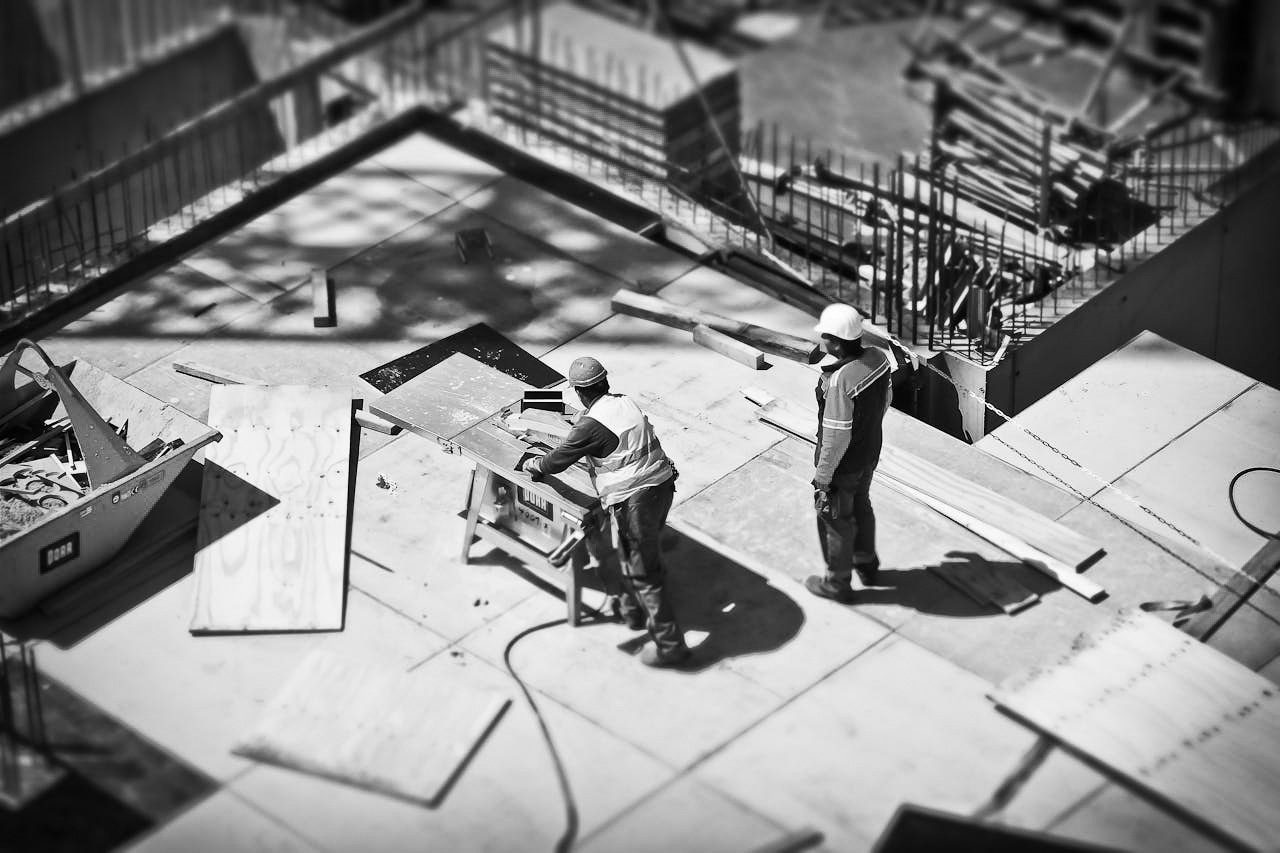
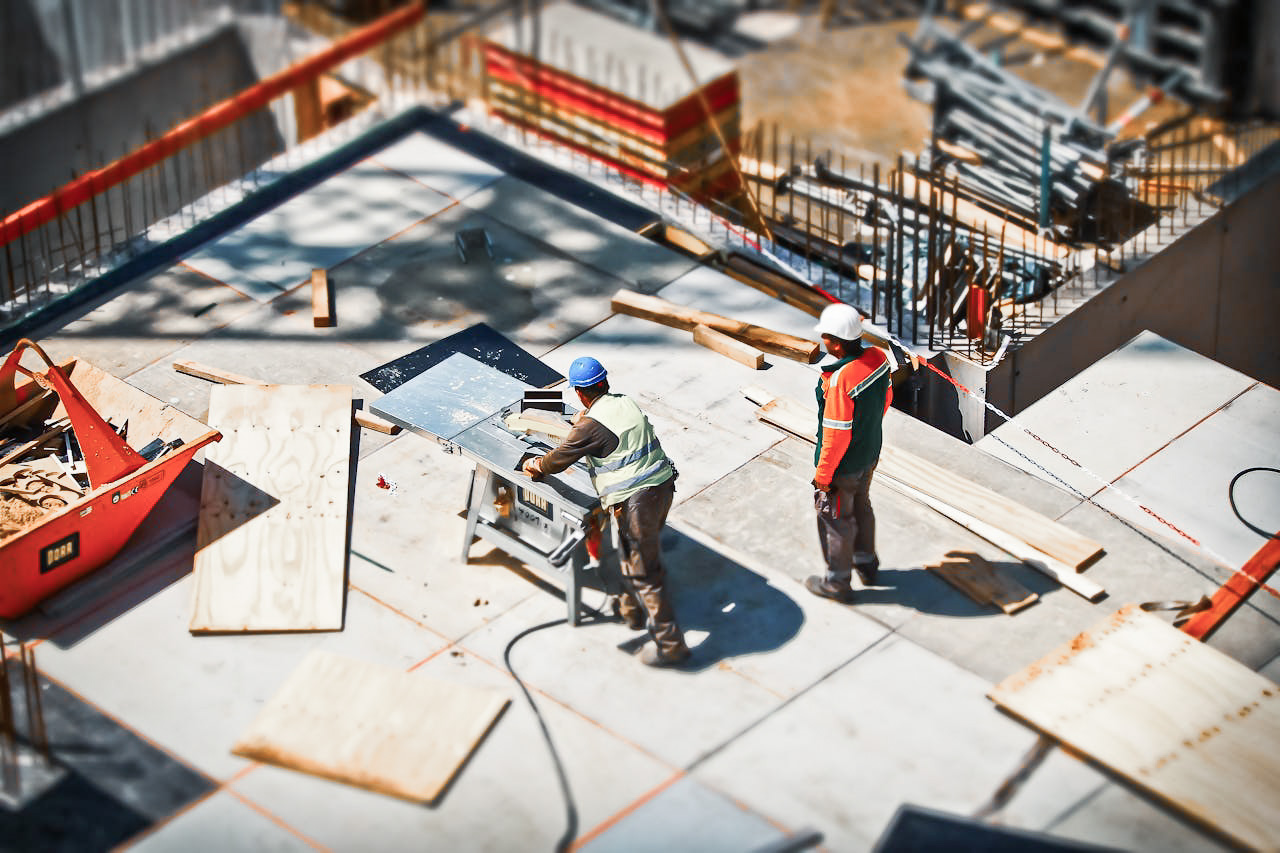
Add files via upload

diff --git a/css/styles.css b/css/styles.css
@@ -264,7 +264,7 @@
   width: 100%;
 }
 .hero.main .hero-text { max-width: 580px; }
-.hero-text { max-width: 700px; }
+.hero-text { max-width: 650px; }
 .hero h1 {
   margin-bottom: var(--space-5);
 }
@@ -833,7 +833,7 @@
 }
 .industry-img {
   aspect-ratio: 16 / 10;
-  border-radius: var(--radius-sm);
+  border-radius: var(--radius-md);
   overflow: hidden;
   background: var(--color-gray);
 }
@@ -845,7 +845,7 @@
 }
 .industry-row:hover .industry-img img {
   filter: grayscale(0);
-  transform: scale(1.04);
+  transform: scale(1.08);
 }
 
 @media (max-width: 1024px) {
@@ -1500,7 +1500,7 @@ color: var(--color-gray-lighter);
   }
   .contact-card {padding: var(--space-10); width: 90%; top: -5rem;}
   .contact-row .hero-text {
-    max-width: 100%;
+    max-width: 90%;
   }
 }
 

diff --git a/industries.html b/industries.html
@@ -90,7 +90,7 @@
               <h2>Construction</h2>
               <p class="text-lg">We move material and equipment across jobsites, construction yards, and distribution centers with flatbed, step deck, and dry van solutions. Permits, routing, and dockless jobsite delivery are coordinated in advance. With crews scheduled and cranes booked to offload, we ensure drivers show up on time and freight is handled with care.</p>
             </div>
-            <div class="industry-img"><img src="img/industries-ace-lane-construction.png" alt="Construction"></div>
+            <div class="industry-img"><img src="img/industries-ace-lane-construction.jpg" alt="Construction"></div>
           </li>
           
           <li class="industry-row">
@@ -99,7 +99,7 @@
               <h2>Food & Beverage</h2>
               <p class="text-lg">We move reefer freight for retail distribution centers, producer-direct lanes, and stock transfers. Trailer temperature is confirmed at pick-up and tracked through delivery. We manage retail DC appointments when shippers prefer to hand off scheduling. Food-grade trailers and washout verification keep product integrity intact, with protective dunnage used as needed to keep your products in the right condition.</p>
             </div>
-            <div class="industry-img"><img src="img/industries-ace-lane-food-and-beverage.png" alt=""></div>
+            <div class="industry-img"><img src="img/industries-ace-lane-food-and-beverage.jpg" alt=""></div>
           </li>
           
           <li class="industry-row">
@@ -108,7 +108,7 @@
               <h2>Tradeshow</h2>
               <p class="text-lg">We coordinate tradeshow freight around target move-in dates and marshalling yard schedules. Advance warehouse and direct-to-show delivery, with MHA and BOLs submitted promptly to the show contractor to avoid the forced-freight list once booths are broken down. We work with experienced tradeshow drivers and meet optimal check-in windows, whether show-to-show or back to the DC.</p>
             </div>
-            <div class="industry-img"><img src="img/industries-ace-lane-gameshow.jpg" alt="Tradeshow"></div>
+            <div class="industry-img"><img src="img/industries-ace-lane-tradeshow.png" alt="Tradeshow"></div>
           </li>
           
           <li class="industry-row">
@@ -135,7 +135,7 @@
               <h2>Other industries</h2>
               <p class="text-lg">We use the same discipline across different industries. Whether it is retail and e-commerce, pharmaceuticals, produce, or automotive freight, we deliver tailored logistics solutions and ensure proper handling adapted to your unique industry needs.</p>
             </div>
-            <div class="industry-img"><img src="img/industries-ace-lane-other.png" alt="Other industries"></div>
+            <div class="industry-img"><img src="img/industries-ace-lane-other2.jpg" alt="Other industries"></div>
           </li>
 
         </ul>

diff --git a/css/tokens.css b/css/tokens.css
@@ -47,7 +47,7 @@
   --text-2xl: clamp(1.35rem, 1.24rem + 0.56vw, 1.5rem);  /* 22 → 28px */
   --text-3xl: clamp(1.5rem,   1.3rem + 0.75vw, 2rem);     /* 24 → 32px */
   --text-4xl: clamp(1.75rem, 1.3rem + 1.4vw, 3.25rem);  /* 28 → 52px */
-  --text-5xl: clamp(2.75rem, 1.7rem + 2vw, 4rem); /* 56 → 80px */
+  --text-5xl: clamp(2.75rem, 1.7rem + 2vw, 3.75rem); /* 56 → 80px */
   --text-6xl: clamp(3rem, 2rem + 3.33vw, 4.5rem); /* 56 → 80px */
 
   /* Pesos */

diff --git a/services.html b/services.html
@@ -69,7 +69,7 @@
 
     <!-- HERO -->
     <section class="hero" aria-label="Services intro">
-      <div class="hero-bg" style="background-image: url('img/services-hero.png');"></div>
+      <div class="hero-bg" style="background-image: url('img/services-hero-2.png');"></div>
       <div class="container hero-inner">
         <div class="hero-text">
           <h1 class="heading-5xl">Explore our full range of freight solutions</h1>